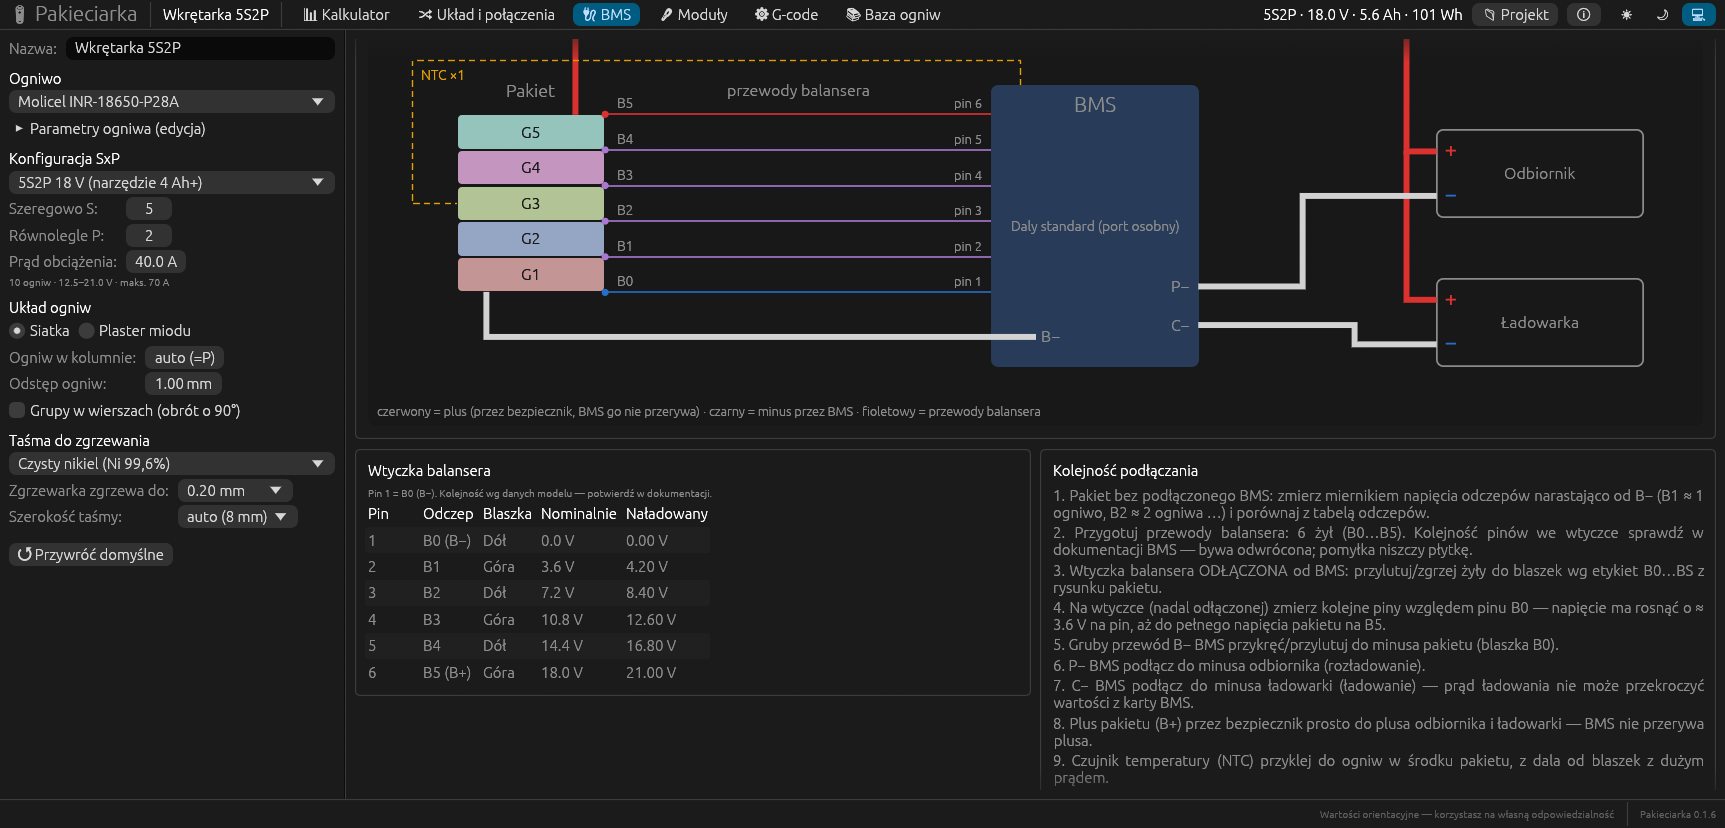
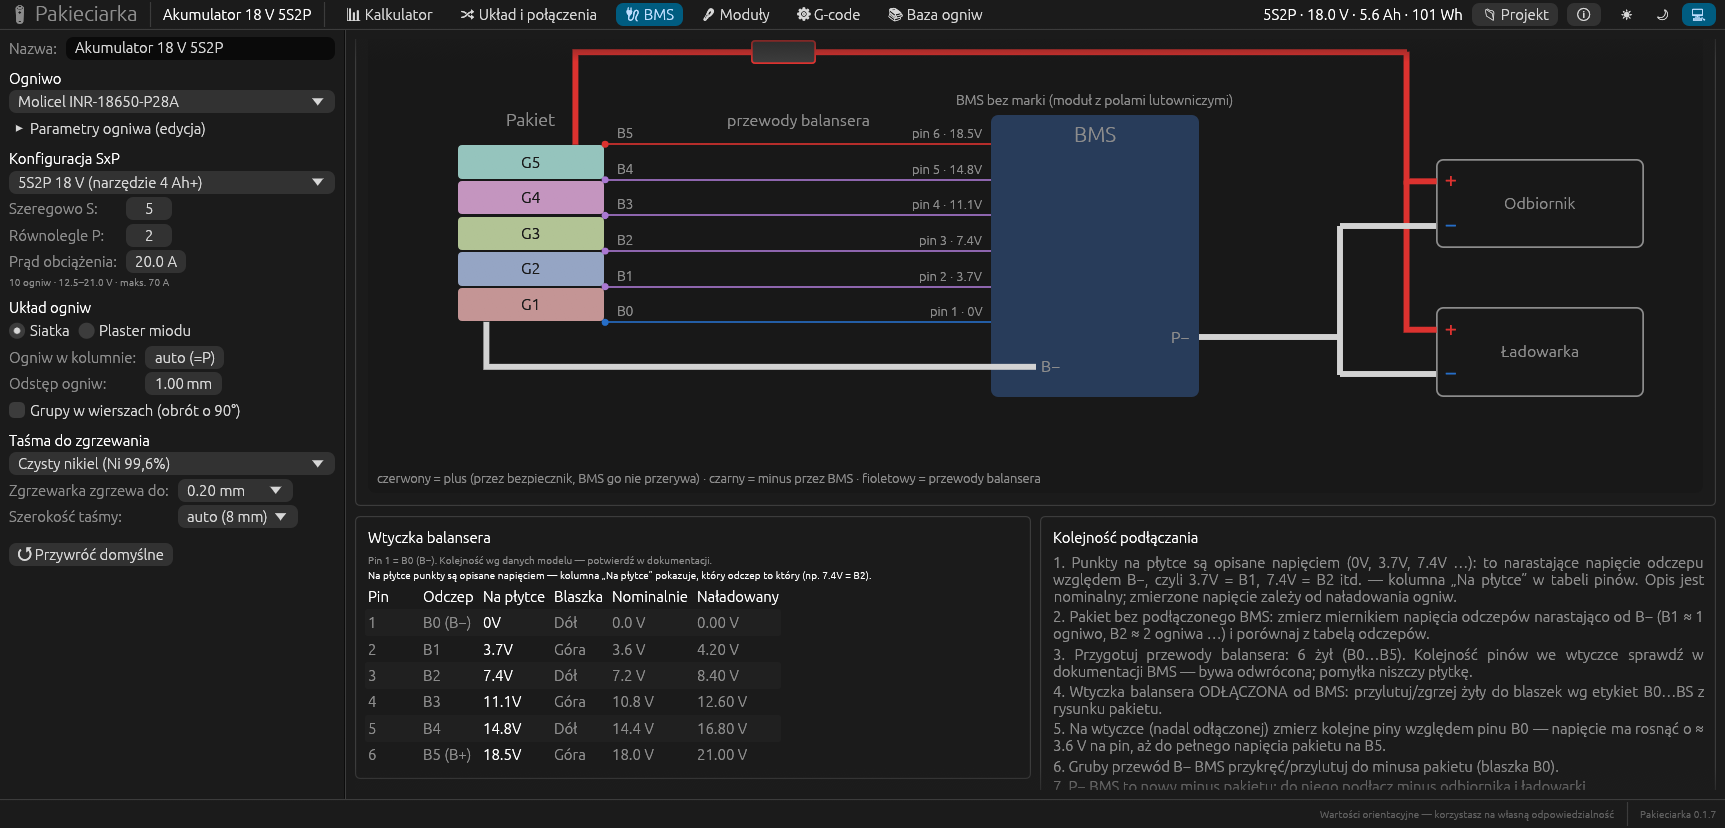
feat(bms): napisy na płytce (0V/3.7V/7.4V…, 1S/2S…) i poprawki schematu; v0.1.8
- opis punktów balansera jako parametr BMS: numery odczepów, napięcia albo numery ogniw
- kolumna „Na płytce” w tabeli pinów (program i PDF) i napisy przy pinach na schemacie
- nowy wpis „BMS bez marki” (tanie moduły 2–8S z opisem napięciowym)
- schemat: minus ładowarki dociągnięty do P− przy porcie wspólnym, nazwa BMS nad blokiem,
  NTC prowadzone dołem bez krzyżowania przewodów
- instrukcja: opis napisów na płytce, odświeżone zrzuty BMS

diff --git a/app/src/bms_ui.rs b/app/src/bms_ui.rs
@@ -5,7 +5,7 @@ use crate::draw::{NEG, POS};
 use crate::platform::{self, OpenKind};
 use crate::store;
 use egui::{vec2, Align2, Color32, FontId, Rect, RichText, Sense, Shape, Stroke, Ui};
-use pakiet_core::bms::{balance_pins, match_bms, required_current, wiring_steps, Balancing, Bms, Port};
+use pakiet_core::bms::{balance_pins, match_bms, pad_label, required_current, wiring_steps, Balancing, Bms, PadLabels, Port};
 use pakiet_core::calc::PackStats;
 use pakiet_core::cells::Chemistry;
 use pakiet_core::layout::Layout;
@@ -215,7 +215,7 @@ impl PakieciarkaApp {
             ui.add_space(6.0);
             let w = ui.available_width();
             let h = (w * wiring_height(st.s) / 900.0).clamp(260.0, 1100.0);
-            draw_bms_wiring(ui, b, st.s, vec2(w, h));
+            draw_bms_wiring(ui, b, st.s, self.project.cell.chemistry, vec2(w, h));
         });
 
         ui.columns(2, |cols| {
@@ -228,8 +228,15 @@ impl PakieciarkaApp {
                     })
                     .small(),
                 );
-                egui::Grid::new("bms_pins").striped(true).num_columns(5).show(ui, |ui| {
-                    for h in ["Pin", "Odczep", "Blaszka", "Nominalnie", "Naładowany"] {
+                if b.pad_labels == PadLabels::Voltages {
+                    ui.label(
+                        RichText::new("Na płytce punkty są opisane napięciem — kolumna „Na płytce” pokazuje, który odczep to który (np. 7.4V = B2).")
+                            .small()
+                            .strong(),
+                    );
+                }
+                egui::Grid::new("bms_pins").striped(true).num_columns(6).show(ui, |ui| {
+                    for h in ["Pin", "Odczep", "Na płytce", "Blaszka", "Nominalnie", "Naładowany"] {
                         ui.strong(h);
                     }
                     ui.end_row();
@@ -241,6 +248,7 @@ impl PakieciarkaApp {
                             t if t == st.s => format!("B{t} (B+)"),
                             t => format!("B{t}"),
                         });
+                        ui.label(RichText::new(pad_label(b, tap, st.s, cell.chemistry)).strong());
                         let side = layout.plates.iter().find(|p| p.tap == tap).map(|p| p.side.label()).unwrap_or("—");
                         ui.label(side);
                         ui.label(format!("{:.1} V", tap as f64 * cell.nominal_v));
@@ -357,6 +365,13 @@ impl PakieciarkaApp {
                     ui.radio_value(&mut b.b0_first, false, "B+ (najwyższy)");
                 });
                 ui.end_row();
+                ui.label("Opis punktów na płytce:");
+                egui::ComboBox::from_id_salt("pad_labels").selected_text(b.pad_labels.label()).show_ui(ui, |ui| {
+                    for l in PadLabels::ALL {
+                        ui.selectable_value(&mut b.pad_labels, l, l.label());
+                    }
+                });
+                ui.end_row();
                 ui.label("Uwagi:");
                 ui.text_edit_multiline(&mut b.notes);
                 ui.end_row();
@@ -418,11 +433,11 @@ impl PakieciarkaApp {
 
 /// Wysokość schematu w jednostkach logicznych (szerokość = 900).
 pub fn wiring_height(s: usize) -> f32 {
-    100.0 + s as f32 * 24.0 + 90.0
+    100.0 + s as f32 * 24.0 + 115.0
 }
 
 /// Schemat: pakiet (grupy G1…GS z odczepami) — wtyczka balansera BMS — B−/P−/C− — odbiornik i ładowarka.
-pub fn draw_bms_wiring(ui: &mut Ui, b: &Bms, s: usize, size: egui::Vec2) {
+pub fn draw_bms_wiring(ui: &mut Ui, b: &Bms, s: usize, chem: Chemistry, size: egui::Vec2) {
     let dark = ui.visuals().dark_mode;
     let (resp, painter) = ui.allocate_painter(size, Sense::hover());
     let rect = resp.rect;
@@ -455,7 +470,8 @@ pub fn draw_bms_wiring(ui: &mut Ui, b: &Bms, s: usize, size: egui::Vec2) {
     let bms_rect = Rect::from_min_max(p(bx0, top - 20.0), p(bx1, tap_y(0) + 50.0));
     painter.rect_filled(bms_rect, 6.0, if dark { Color32::from_rgb(40, 60, 90) } else { Color32::from_rgb(200, 220, 245) });
     painter.text(bms_rect.center_top() + vec2(0.0, 14.0 * sc), Align2::CENTER_CENTER, "BMS", FontId::proportional(fs * 1.3), text);
-    painter.text(bms_rect.center(), Align2::CENTER_CENTER, b.name.as_str(), FontId::proportional(fs * 0.85), text);
+    // nazwa nad blokiem (w środku bloku przechodzą przewody balansera)
+    painter.text(bms_rect.center_top() - vec2(0.0, 6.0), Align2::CENTER_BOTTOM, b.name.as_str(), FontId::proportional(fs * 0.85), text);
 
     // odczepy → wtyczka balansera
     let pins = balance_pins(b, s);
@@ -467,7 +483,11 @@ pub fn draw_bms_wiring(ui: &mut Ui, b: &Bms, s: usize, size: egui::Vec2) {
         painter.circle_filled(from, 3.0, col);
         painter.line_segment([from, to], Stroke::new(1.4, col));
         painter.text(p(px1 + 8.0, y - 2.0), Align2::LEFT_BOTTOM, format!("B{tap}"), FontId::proportional(fs * 0.85), text);
-        painter.text(p(bx0 - 6.0, y - 2.0), Align2::RIGHT_BOTTOM, format!("pin {pin}"), FontId::proportional(fs * 0.8), text);
+        let pin_txt = match b.pad_labels {
+            PadLabels::Taps => format!("pin {pin}"),
+            _ => format!("pin {pin} · {}", pad_label(b, tap, s, chem)),
+        };
+        painter.text(p(bx0 - 6.0, y - 2.0), Align2::RIGHT_BOTTOM, pin_txt, FontId::proportional(fs * 0.8), text);
     }
     painter.text(p((px1 + bx0) / 2.0, top - 16.0), Align2::CENTER_CENTER, "przewody balansera", FontId::proportional(fs), text);
 
@@ -507,8 +527,13 @@ pub fn draw_bms_wiring(ui: &mut Ui, b: &Bms, s: usize, size: egui::Vec2) {
     match b.port {
         Port::Common => {
             painter.text(p(bx1 - 6.0, y_bminus - 20.0), Align2::RIGHT_CENTER, "P−", FontId::proportional(fs), text);
-            painter.add(Shape::line(vec![p(bx1, y_bminus - 20.0), p(655.0, y_bminus - 20.0), p(655.0, y_load_minus), p(lx, y_load_minus)], thick));
-            painter.add(Shape::line(vec![p(655.0, y_ch_minus), p(cx, y_ch_minus)], thick));
+            let yp = y_bminus - 20.0;
+            painter.line_segment([p(bx1, yp), p(655.0, yp)], thick);
+            // wspólna szyna minusa: od P− do obu odbiorników, niezależnie od kolejności wysokości
+            let (y0, y1) = (yp.min(y_load_minus).min(y_ch_minus), yp.max(y_load_minus).max(y_ch_minus));
+            painter.line_segment([p(655.0, y0), p(655.0, y1)], thick);
+            painter.line_segment([p(655.0, y_load_minus), p(lx, y_load_minus)], thick);
+            painter.line_segment([p(655.0, y_ch_minus), p(cx, y_ch_minus)], thick);
         }
         Port::Separate => {
             painter.text(p(bx1 - 6.0, y_bminus - 34.0), Align2::RIGHT_CENTER, "P−", FontId::proportional(fs), text);
@@ -520,14 +545,14 @@ pub fn draw_bms_wiring(ui: &mut Ui, b: &Bms, s: usize, size: egui::Vec2) {
     painter.text(p(lx + 6.0, y_load_minus), Align2::LEFT_CENTER, "−", FontId::monospace(fs * 1.2), NEG);
     painter.text(p(cx + 6.0, y_ch_minus), Align2::LEFT_CENTER, "−", FontId::monospace(fs * 1.2), NEG);
 
-    // NTC — obrzeżem: od góry BMS, nad pakietem, z lewej do środka pakietu
+    // NTC — dołem: spod BMS, pod pakietem, z lewej do środka pakietu (bez krzyżowania przewodów)
     if b.ntc > 0 {
         let col = Color32::from_rgb(230, 160, 0);
-        let y = top - 36.0;
+        let y = tap_y(0) + 72.0;
         let mid = tap_y(s / 2) - step / 2.0;
-        let path = [p(bx0 + 20.0, top - 20.0), p(bx0 + 20.0, y), p(30.0, y), p(30.0, mid), p(px0, mid)];
+        let path = [p(bx0 + 20.0, tap_y(0) + 50.0), p(bx0 + 20.0, y), p(30.0, y), p(30.0, mid), p(px0, mid)];
         painter.extend(Shape::dashed_line(&path, Stroke::new(1.2, col), 5.0, 4.0));
-        painter.text(p(36.0, y + 4.0), Align2::LEFT_TOP, format!("NTC ×{}", b.ntc), FontId::proportional(fs * 0.85), col);
+        painter.text(p(36.0, y - 3.0), Align2::LEFT_BOTTOM, format!("NTC ×{}", b.ntc), FontId::proportional(fs * 0.85), col);
     }
 
     painter.text(

diff --git a/core/src/bms.rs b/core/src/bms.rs
@@ -41,6 +41,55 @@ impl Balancing {
     }
 }
 
+/// Jak opisane są punkty balansera na płytce / przewodach.
+#[derive(Clone, Copy, Debug, Default, PartialEq, Eq, Serialize, Deserialize)]
+pub enum PadLabels {
+    /// B0 (B−), B1, B2 … BS (B+)
+    #[default]
+    Taps,
+    /// Narastające napięcie nominalne: 0V, 3.7V, 7.4V … (LiFePO4: 3.2V, 6.4V …) — typowe w tanich BMS
+    Voltages,
+    /// Numer ogniwa: B−, 1S, 2S …
+    Cells,
+}
+
+impl PadLabels {
+    pub const ALL: [PadLabels; 3] = [PadLabels::Taps, PadLabels::Voltages, PadLabels::Cells];
+
+    pub fn label(self) -> &'static str {
+        match self {
+            PadLabels::Taps => "B0, B1, B2 … (numery odczepów)",
+            PadLabels::Voltages => "0V, 3.7V, 7.4V … (napięcia)",
+            PadLabels::Cells => "B−, 1S, 2S … (numery ogniw)",
+        }
+    }
+}
+
+/// Napięcie „na etykiecie” jednego ogniwa — tanie płytki opisują punkty wielokrotnością tej wartości.
+pub fn label_cell_voltage(chem: Chemistry) -> f64 {
+    match chem {
+        Chemistry::LiIon => 3.7,
+        Chemistry::LiFePO4 => 3.2,
+    }
+}
+
+/// Napis przy punkcie balansera dla odczepu `tap` (0…s).
+pub fn pad_label(b: &Bms, tap: usize, s: usize, chem: Chemistry) -> String {
+    match b.pad_labels {
+        PadLabels::Taps => match tap {
+            0 => "B0 / B−".into(),
+            t if t == s => format!("B{t} / B+"),
+            t => format!("B{t}"),
+        },
+        PadLabels::Voltages => {
+            let v = tap as f64 * label_cell_voltage(chem);
+            let txt = format!("{v:.1}").replace(".0", "");
+            format!("{txt}V")
+        }
+        PadLabels::Cells => if tap == 0 { "B−".into() } else { format!("{tap}S") },
+    }
+}
+
 #[derive(Clone, Debug, PartialEq, Serialize, Deserialize)]
 #[serde(default)]
 pub struct Bms {
@@ -62,6 +111,8 @@ pub struct Bms {
     pub ntc: u8,
     /// true: pin 1 wtyczki balansera = B0 (B−); false: pin 1 = BS (B+)
     pub b0_first: bool,
+    /// Opis punktów balansera na płytce
+    pub pad_labels: PadLabels,
     /// Dane potwierdzone z dokumentacją producenta
     pub verified: bool,
     pub notes: String,
@@ -82,6 +133,7 @@ impl Default for Bms {
             smart: false,
             ntc: 1,
             b0_first: true,
+            pad_labels: PadLabels::Taps,
             verified: true,
             notes: String::new(),
         }
@@ -134,6 +186,7 @@ fn family(
         smart,
         ntc: if smart { 2 } else { 1 },
         b0_first: true,
+        pad_labels: PadLabels::Taps,
         verified: false,
         notes: notes.into(),
     }
@@ -143,7 +196,21 @@ fn family(
 pub fn builtin_bms() -> Vec<Bms> {
     use Balancing::*;
     use Port::*;
+    let mut generic = family(
+        "—",
+        "BMS bez marki (moduł z polami lutowniczymi)",
+        (2, 8),
+        &[10.0, 20.0, 30.0, 40.0],
+        Passive,
+        30.0,
+        Common,
+        false,
+        "Tanie moduły (np. do elektronarzędzi): pola lutownicze opisane narastającym napięciem — 0V, 3.7V, 7.4V … zamiast B0, B1, B2. Często bez balansowania albo z bardzo małym prądem — sprawdź opis. Osobne płytki dla Li-ion i LiFePO4.",
+    );
+    generic.pad_labels = PadLabels::Voltages;
+    generic.ntc = 0;
     vec![
+        generic,
         family(
             "Daly",
             "Daly standard (port wspólny)",
@@ -279,7 +346,14 @@ pub fn balance_pins(b: &Bms, s: usize) -> Vec<(usize, usize)> {
 
 /// Opis podłączenia krok po kroku.
 pub fn wiring_steps(b: &Bms, s: usize, nominal_v: f64) -> Vec<String> {
-    let mut v = vec![
+    let mut v = Vec::new();
+    if b.pad_labels != PadLabels::Taps {
+        v.push(match b.pad_labels {
+            PadLabels::Voltages => "Punkty na płytce są opisane napięciem (0V, 3.7V, 7.4V …): to narastające napięcie odczepu względem B−, czyli 3.7V = B1, 7.4V = B2 itd. — kolumna „Na płytce” w tabeli pinów. Opis jest nominalny; zmierzone napięcie zależy od naładowania ogniw.".to_string(),
+            _ => "Punkty na płytce są opisane numerami ogniw (B−, 1S, 2S …): 1S = B1, 2S = B2 itd. — kolumna „Na płytce” w tabeli pinów.".to_string(),
+        });
+    }
+    v.extend([
         "Pakiet bez podłączonego BMS: zmierz miernikiem napięcia odczepów narastająco od B− (B1 ≈ 1 ogniwo, B2 ≈ 2 ogniwa …) i porównaj z tabelą odczepów.".to_string(),
         format!(
             "Przygotuj przewody balansera: {} żył (B0…B{s}). Kolejność pinów we wtyczce sprawdź w dokumentacji BMS — bywa odwrócona; pomyłka niszczy płytkę.",
@@ -290,7 +364,7 @@ pub fn wiring_steps(b: &Bms, s: usize, nominal_v: f64) -> Vec<String> {
             "Na wtyczce (nadal odłączonej) zmierz kolejne piny względem pinu B0 — napięcie ma rosnąć o ≈ {nominal_v:.1} V na pin, aż do pełnego napięcia pakietu na B{s}."
         ),
         "Gruby przewód B− BMS przykręć/przylutuj do minusa pakietu (blaszka B0).".to_string(),
-    ];
+    ]);
     match b.port {
         Port::Common => v.push("P− BMS to nowy minus pakietu: do niego podłącz minus odbiornika i ładowarki.".into()),
         Port::Separate => {
@@ -322,6 +396,17 @@ mod tests {
         let m = match_bms(&jk, 4, Chemistry::LiIon, 35.0);
         assert!(!m.ok());
         assert_eq!(required_current(25.0), 35.0);
+    }
+
+    #[test]
+    fn pad_labels() {
+        let b = Bms { pad_labels: PadLabels::Voltages, ..Default::default() };
+        assert_eq!(pad_label(&b, 0, 4, Chemistry::LiIon), "0V");
+        assert_eq!(pad_label(&b, 2, 4, Chemistry::LiIon), "7.4V");
+        assert_eq!(pad_label(&b, 3, 4, Chemistry::LiIon), "11.1V");
+        assert_eq!(pad_label(&b, 1, 4, Chemistry::LiFePO4), "3.2V");
+        let c = Bms { pad_labels: PadLabels::Cells, ..Default::default() };
+        assert_eq!(pad_label(&c, 3, 4, Chemistry::LiIon), "3S");
     }
 
     #[test]

diff --git a/app/src/pdf.rs b/app/src/pdf.rs
@@ -584,7 +584,7 @@ fn info_pages(d: &mut Doc, project: &Project, layout: &Layout) {
 }
 
 fn bms_page(d: &mut Doc, project: &Project, layout: &Layout, b: &pakiet_core::bms::Bms) {
-    use pakiet_core::bms::{balance_pins, match_bms, required_current, wiring_steps};
+    use pakiet_core::bms::{balance_pins, match_bms, pad_label, required_current, wiring_steps};
     let cell = &project.cell;
     let s = project.s;
     d.page();
@@ -627,8 +627,8 @@ fn bms_page(d: &mut Doc, project: &Project, layout: &Layout, b: &pakiet_core::bm
     let mut y = top;
     d.text(MARGIN, y, "Wtyczka balansera", 9.0, BLACK, Align::Left, true);
     y += 5.0;
-    let cols = [0.0, 12.0, 34.0, 50.0, 72.0];
-    for (i, h) in ["Pin", "Odczep", "Blaszka", "Nominalnie", "Naładowany"].iter().enumerate() {
+    let cols = [0.0, 10.0, 28.0, 46.0, 62.0, 80.0];
+    for (i, h) in ["Pin", "Odczep", "Na płytce", "Blaszka", "Nominalnie", "Naładowany"].iter().enumerate() {
         d.text(MARGIN + cols[i], y, h, 7.5, GRAY, Align::Left, true);
     }
     y += 4.0;
@@ -645,6 +645,7 @@ fn bms_page(d: &mut Doc, project: &Project, layout: &Layout, b: &pakiet_core::bm
         for (i, v) in [
             pin.to_string(),
             name,
+            pad_label(b, tap, s, cell.chemistry),
             side.to_string(),
             format!("{:.1} V", tap as f64 * cell.nominal_v),
             format!("{:.2} V", tap as f64 * cell.max_v),
@@ -657,7 +658,7 @@ fn bms_page(d: &mut Doc, project: &Project, layout: &Layout, b: &pakiet_core::bm
         y += 3.6;
     }
 
-    let x = MARGIN + 105.0;
+    let x = MARGIN + 112.0;
     let w = PAGE_W - MARGIN - x;
     let mut y = top;
     d.text(x, y, "Kolejność podłączania", 9.0, BLACK, Align::Left, true);

diff --git a/docs/INSTRUKCJA.md b/docs/INSTRUKCJA.md
@@ -297,7 +297,7 @@ Kolumna *Wariant* to najmniejszy dostępny wariant prądu spełniający wymagani
 - **✔ sprawdzone** — Twój własny BMS z danymi z dokumentacji,
 - **⚠ do sprawdzenia** — dane wbudowane, orientacyjne (zebrane z opisów producentów i sprzedawców; najechanie
   kursorem pokazuje uwagi). Rodziny w bazie: Daly (standard z portem wspólnym i osobnym, Smart), JBD SP17S / SP24S,
-  JK B1A8S / BD6A17S / B2A24S.
+  JK B1A8S / BD6A17S / B2A24S oraz ogólny „BMS bez marki” (tanie moduły 2–8S).
 
 > To pomoc w doborze, nie rekomendacja zakupowa. Warianty i oznaczenia BMS-ów często się zmieniają — zawsze sprawdź
 > kartę katalogową konkretnego egzemplarza.
@@ -308,11 +308,18 @@ Kolumna *Wariant* to najmniejszy dostępny wariant prądu spełniający wymagani
   gruby przewód **B−** do minusa pakietu, **P−** (port wspólny) albo **P−** i **C−** (port osobny) do odbiornika
   i ładowarki, plus pakietu przez **bezpiecznik** prosto do odbiornika i ładowarki (BMS nie przerywa plusa),
   czujnik(i) **NTC**;
-- **wtyczkę balansera** — tabela: pin, odczep, strona pakietu, na której jest blaszka, napięcie nominalne
-  i po naładowaniu;
+- **wtyczkę balansera** — tabela: pin, odczep, **napis na płytce**, strona pakietu, na której jest blaszka,
+  napięcie nominalne i po naładowaniu;
 - **kolejność podłączania** krok po kroku — z pomiarem miernikiem przed wpięciem wtyczki.
 
-![Schemat podłączenia BMS z portem osobnym (P− i C−)](img/14-bms-schemat.png)
+![Schemat podłączenia taniego BMS — punkty opisane napięciem (3.7V, 7.4V …)](img/14-bms-schemat.png)
+
+**Napisy na płytce.** Markowe BMS-y opisują przewody balansera numerami odczepów (B0, B1, B2 …), ale tanie moduły
+często podają przy polach lutowniczych **narastające napięcie**: `0V`, `3.7V`, `7.4V`, `11.1V` … (dla LiFePO4:
+`3.2V`, `6.4V` …), a niektóre numery ogniw: `B−`, `1S`, `2S` … Program przelicza to w kolumnie **Na płytce**
+i przy pinach na schemacie — np. `7.4V` = B2, `11.1V` = B3. Napis jest nominalny: zmierzone napięcie zależy
+od naładowania ogniw (na B2 przy pełnym naładowaniu będzie ok. 8,4 V). Sposób opisu ustawiasz dla własnego BMS
+w polu *Opis punktów na płytce*.
 
 > Kolejność pinów we wtyczce balansera bywa **odwrócona** między modelami, a nawet egzemplarzami. Pomyłka niszczy BMS.
 > Zawsze zmierz napięcia na wtyczce (odłączonej od BMS) względem pinu B0 — mają rosnąć o napięcie jednego ogniwa
@@ -320,7 +327,8 @@ Kolumna *Wariant* to najmniejszy dostępny wariant prądu spełniający wymagani
 
 **Moje BMS-y** — dodaj BMS, który faktycznie masz (**➕ Dodaj własny BMS** albo **📋 Skopiuj do moich i popraw**
 przy wybranym modelu z bazy). W oknie edycji: nazwa, producent, zakres S, chemia, prąd ciągły, balansowanie
-(pasywne / aktywne, prąd), port (wspólny / osobny), aplikacja, liczba NTC, **pin 1 wtyczki** (B0 albo B+), uwagi
+(pasywne / aktywne, prąd), port (wspólny / osobny), aplikacja, liczba NTC, **pin 1 wtyczki** (B0 albo B+),
+**opis punktów na płytce** (B0/B1…, napięcia 3.7V/7.4V… albo 1S/2S…), uwagi
 i znacznik „dane sprawdzone z dokumentacją”. Sekcja *Moje BMS-y* (zwinięta) pozwala edytować i usuwać własne
 BMS-y także wtedy, gdy nie pasują do otwartego pakietu. Import / eksport — pliki JSON.
 
